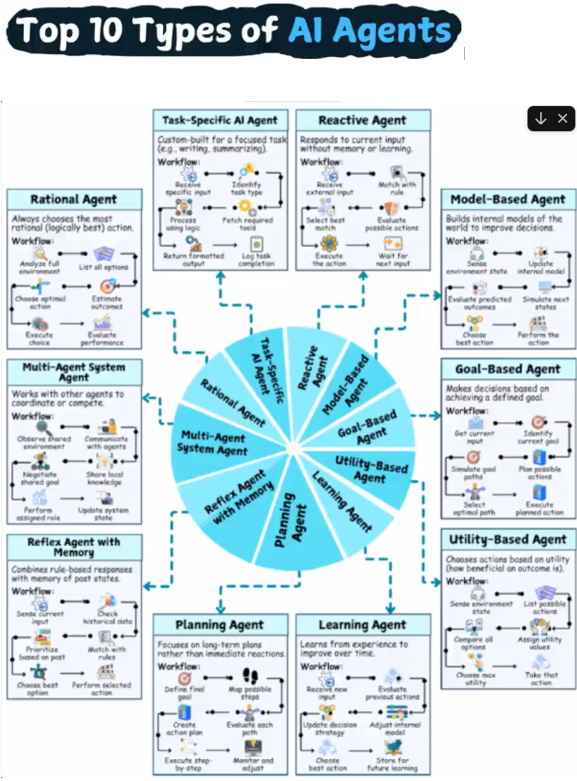
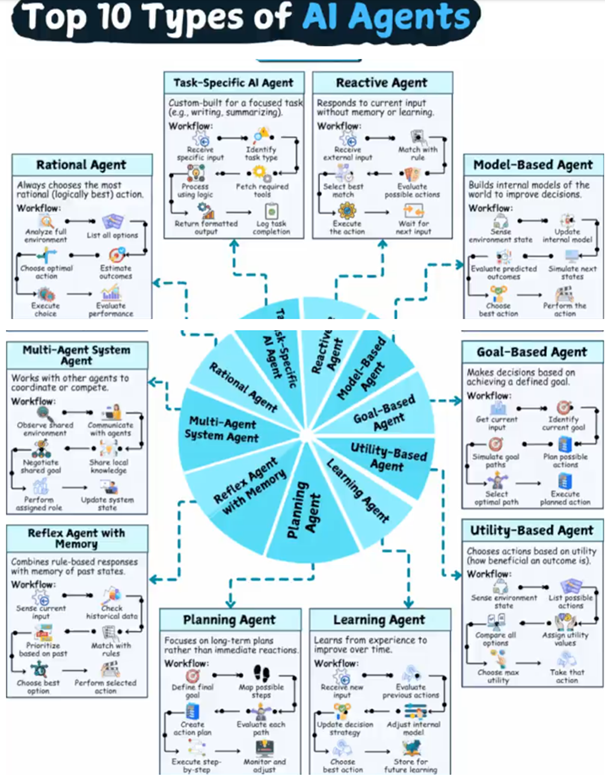
Add boton to download poster

diff --git a/frontend/src/components/AgentTheoryDocs/AgentTheoryDocs.jsx b/frontend/src/components/AgentTheoryDocs/AgentTheoryDocs.jsx
@@ -860,6 +860,13 @@ const AgentTheoryDocs = () => {
               >
                 Open in Theory
               </button>
+              <a
+                href="/agent-theory/agent-types-10.png"
+                download="agent-types-10.png"
+                style={{ background: '#111827', color: 'white', textDecoration: 'none', padding: '6px 10px', borderRadius: 6 }}
+              >
+                Download poster
+              </a>
             </div>
           </div>
         </div>
